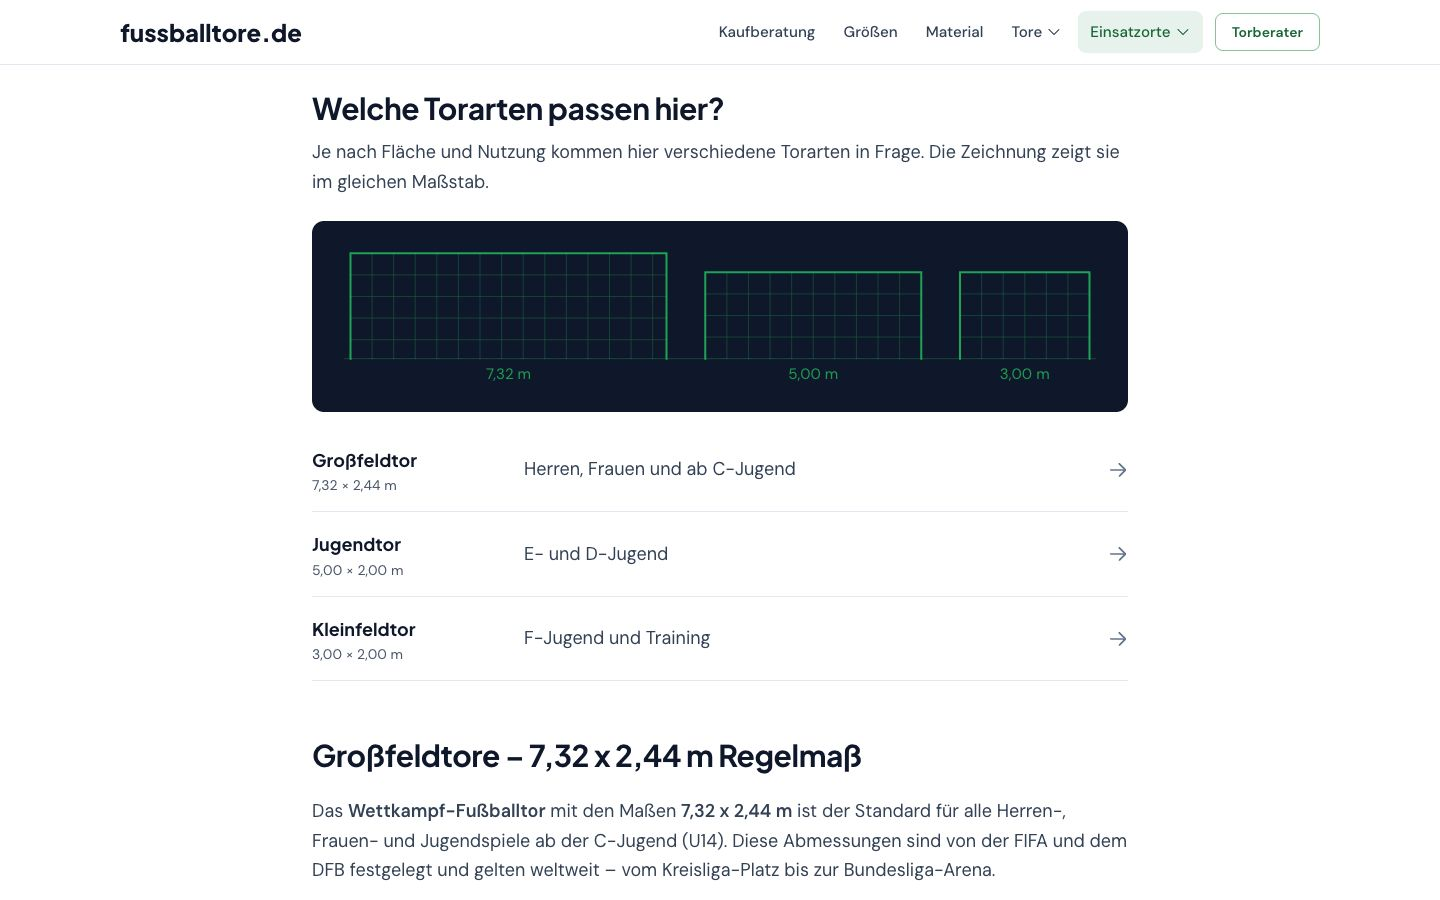
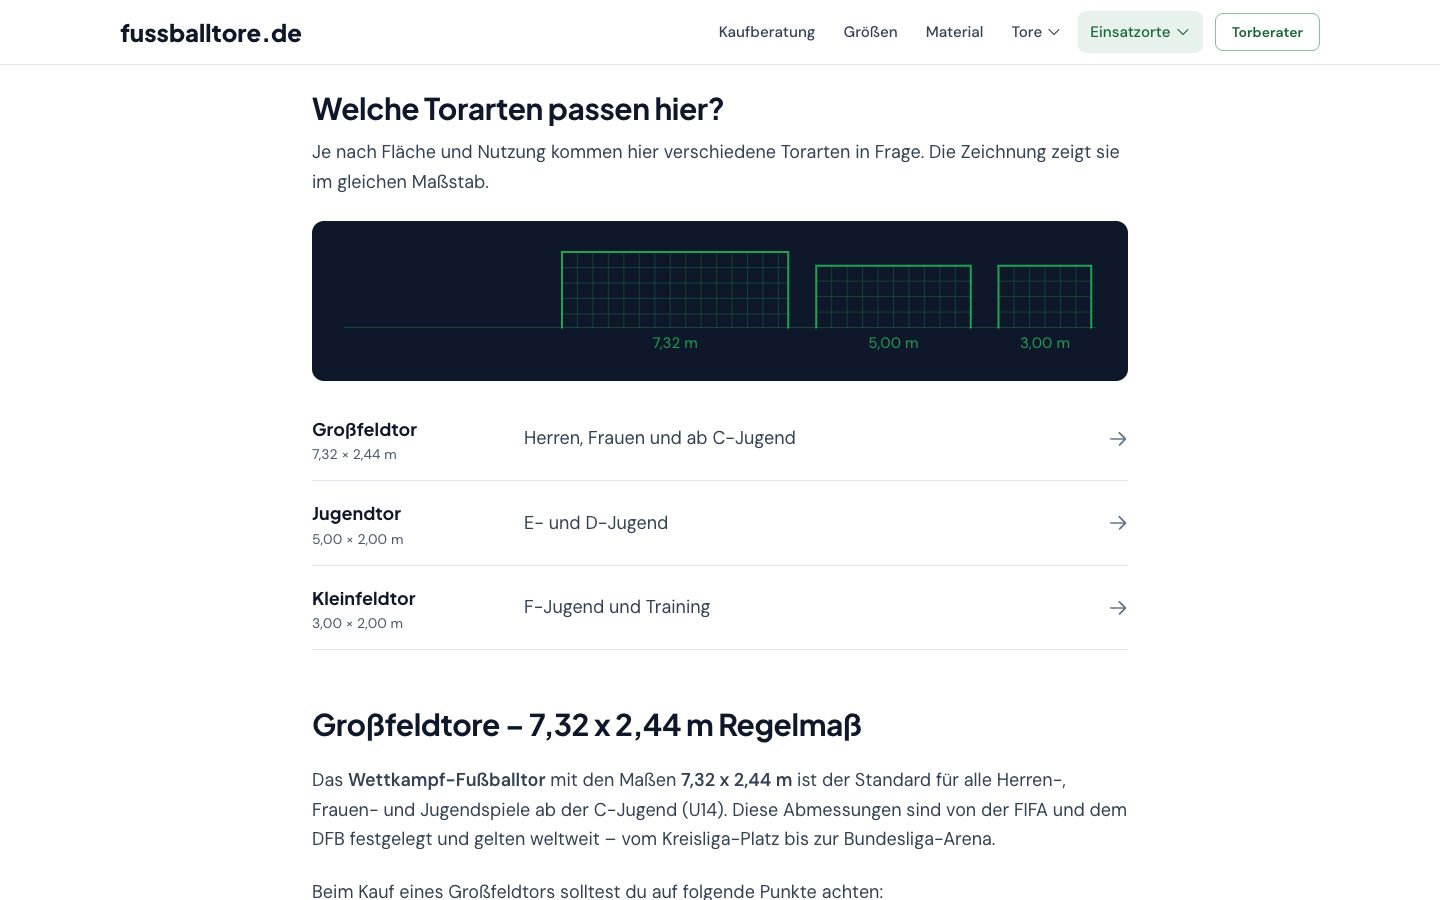
Struktur: Torarten-Baustein auf schule/kommune/garten hinter die Zuordnungstabelle, gleicher Maßstab

diff --git a/docs/seo-logbuch.md b/docs/seo-logbuch.md
@@ -11,7 +11,7 @@ Der Ordner `docs/` wird nicht mit ausgeliefert (nur `src/` und `public/` landen 
 - Startseite: „Fußballtore nach Kategorie“ ersetzt durch „Fußballtore nach Torart“ (Fotokarten) und „Fußballtore nach Einsatzort“ (Liste mit maßstabsgetreuen Tor-Linien und „Geeignet: …“). H1, Title, Description unverändert.
 - Header: Kaufberatung, Größen, Material direkt; Dropdowns „Tore“ (Torarten + Kinder/Funino) und „Einsatzorte“ als `<details>`, Links bleiben im HTML. Mobilmenü gruppiert (Ratgeber/Torarten/Einsatzorte). Footer: Ratgeber/Torarten/Einsatzorte/Über.
 - Startseiten-Hero zurück auf Navy-Verlauf mit Spielfeldlinien (Stand main), Torberater-Kacheln bleiben. Unterseiten-Banner: Spielfeldlinien + kleine maßstabsgetreue Tor-Linienzeichnung zum Seitenthema (ab 768 px).
-- Neuer Abschnitt „Welche Torarten passen hier?“ auf /verein/, /kommune/, /schule/, /spielplatz/, /garten/, einheitlich direkt nach TL;DR und Einleitung (Vorgabe team-lead: Kunde sieht die Zuordnung sofort; auf /kommune/ am Platzhalter). Zuordnung nur aus dem, was die Seite selbst sagt; Belegstelle steht je Eintrag in `einsatzorte.ts`. /kommune/-Zuordnung vom kommune-Agenten, Minitor dort ausdrücklich nur robuste Alu-Minitore, keine Pop-up-/Klapptore. page-dates dieser Seiten (außer kommune) auf 30.10.
+- Neuer Abschnitt „Welche Torarten passen hier?“ auf /verein/, /kommune/, /schule/, /spielplatz/, /garten/, früh auf der Seite (Vorgabe team-lead: Kunde sieht die Zuordnung sofort): auf /verein/ und /spielplatz/ direkt nach TL;DR und Einleitung; auf /schule/, /kommune/ und /garten/ direkt hinter der ersten Tabelle „Welches Tor passt …“ samt Folgeabsatz, weil der Baustein davor dieselbe Zuordnung doppelt gezeigt hätte. Zeichnung überall im gleichen Maßstab. Zuordnung nur aus dem, was die Seite selbst sagt; Belegstelle steht je Eintrag in `einsatzorte.ts`. /kommune/-Zuordnung vom kommune-Agenten, Minitor dort ausdrücklich nur robuste Alu-Minitore, keine Pop-up-/Klapptore. page-dates dieser Seiten (außer kommune) auf 30.10.
 - /bolzplatztor/: im Weiche-Absatz vom 29.10. ein Satz mit Link auf /kommune/, /kommune/ in „Weiterführende Ratgeber“. Description, H1, FAQ, übriger Fließtext unverändert; page-dates auf 30.10.
 - /verein/: Sprungmarken `id="grossfeldtore"` und `id="kleinfeldtore"` an bestehenden H2 (Text unverändert).
 
